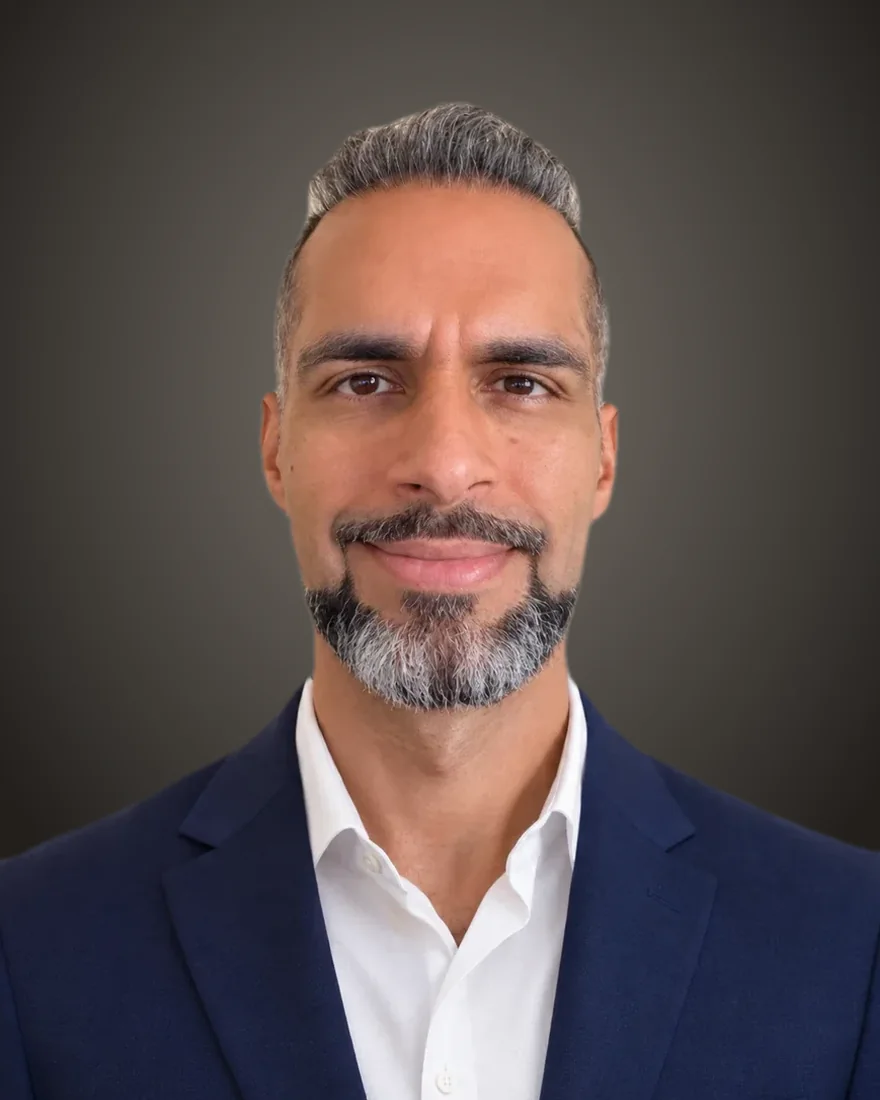
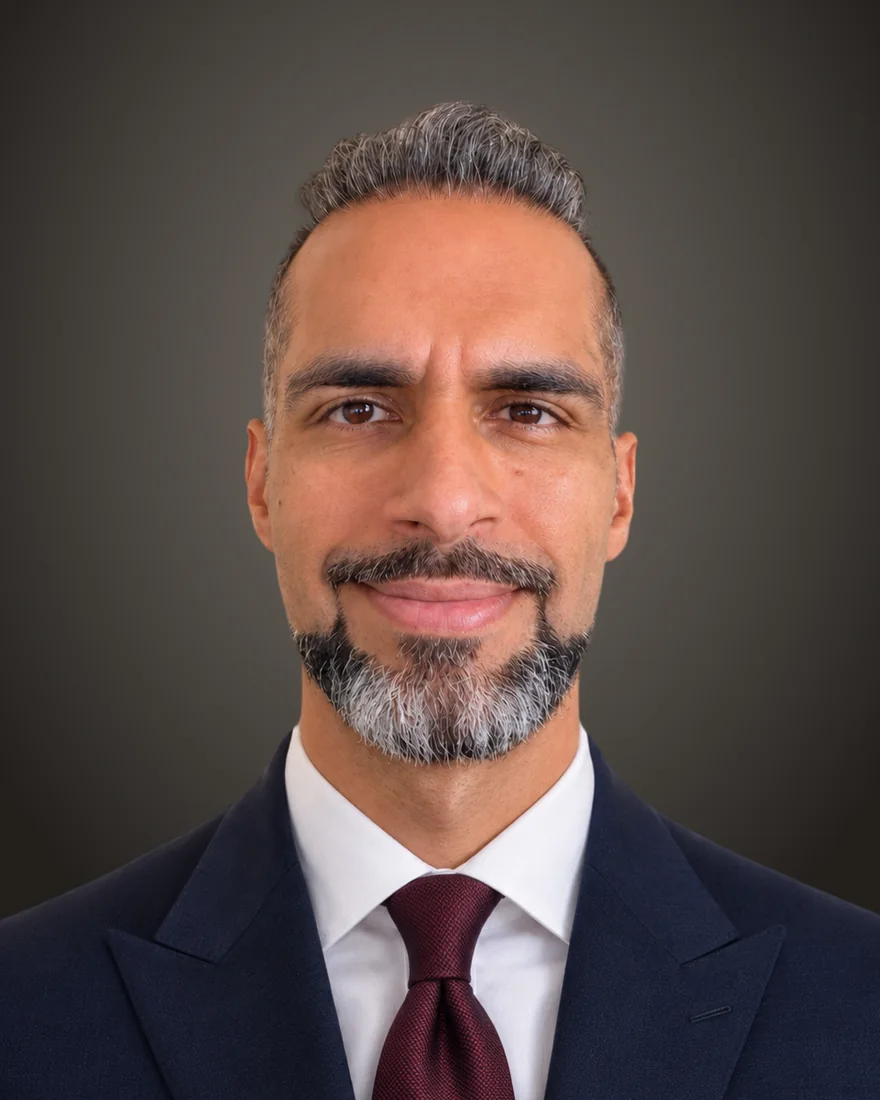
Our Team: full org-chart layout with leadership tiers and AI persona groups
Chandru and Amir on their own tiers, ten conceptual AI personas grouped into
Investment Research and Operations & Governance, each labelled as such.
All portraits cut out, set on one backdrop and matched by eye line and face
size; neutral black and white with a fine gold trim. Public disclosure from
the team handoff sits under the persona section.

Claude-Session: https://claude.ai/code/session_014NhbtmUA87UCGRoWSpcgnQ

diff --git a/index.html b/index.html
@@ -926,24 +926,56 @@ footer::before { content: ''; position: absolute; top: 0; left: 0; right: 0; hei
 
 
 /* ── TEAM ── */
-/* Cards share row tracks (subgrid), so photo, name, title, rule and bio line up across a row */
-.team-grid {
-  --gap: clamp(1.5rem, 3vw, 2.5rem);
-  display: grid; gap: var(--gap);
-  grid-template-columns: repeat(auto-fit, minmax(min(100%, 330px), 390px));
-  justify-content: center;
+.team-wrap { max-width: 1400px; }
+.team-label {
+  display: block; text-align: center; margin-bottom: clamp(1.75rem, 3vw, 2.5rem);
+  font-family: var(--display); font-size: 0.72rem; letter-spacing: 0.45em; text-transform: uppercase;
+  color: var(--gold-s); background: var(--gold-h); -webkit-background-clip: text;
+  -webkit-text-fill-color: transparent; background-clip: text;
 }
+/* one card per tier, centred; the gold link joins the tiers like an org chart */
+.org-tier { display: grid; grid-template-columns: minmax(0, 390px); justify-content: center; }
+.org-link {
+  width: 1px; height: clamp(2.5rem, 5vw, 4rem); margin: 0 auto;
+  background: linear-gradient(180deg, rgba(212,175,55,0.15), var(--gold-s), rgba(212,175,55,0.15));
+  position: relative;
+}
+.org-link::after {
+  content: ''; position: absolute; left: 50%; top: 50%; width: 5px; height: 5px;
+  transform: translate(-50%, -50%) rotate(45deg); background: var(--gold-s);
+}
+.org-link + .team-label { margin-top: clamp(1.25rem, 2.5vw, 2rem); }
+.team-group {
+  display: flex; align-items: center; gap: 1.25rem;
+  max-width: 760px; margin: clamp(2.5rem, 5vw, 3.5rem) auto clamp(1.75rem, 3vw, 2.25rem);
+  font-family: var(--display); font-weight: 400; font-size: 0.8rem; letter-spacing: 0.32em; text-transform: uppercase;
+  color: rgba(249,245,236,0.78); white-space: nowrap;
+}
+.team-label + .team-group { margin-top: 0; }
+.team-group::before, .team-group::after { content: ''; flex: 1; height: 1px; background: var(--border2); }
+
+/* Cards share row tracks (subgrid), so photo, tag, name, title, rule and bio line up across a row */
+.team-grid {
+  --gap: clamp(1.25rem, 2vw, 1.75rem);
+  display: grid; gap: var(--gap); justify-content: center;
+  grid-template-columns: minmax(0, 360px);
+}
+@media (min-width: 640px)  { .team-grid { grid-template-columns: repeat(2, minmax(0, 290px)); } }
+@media (min-width: 1000px) { .team-grid--research { grid-template-columns: repeat(3, minmax(0, 290px)); } }
+@media (min-width: 1320px) { .team-grid--ops { grid-template-columns: repeat(4, minmax(0, 290px)); } }
 .member {
-  display: grid; grid-row: span 5; grid-template-rows: subgrid; row-gap: 0;
+  display: grid; grid-template-rows: subgrid; row-gap: 0;
   text-align: center;
   background: var(--card); border: 1px solid var(--border);
 }
+.member--lead { grid-row: span 5; grid-template-rows: auto; }
+.member--ai { grid-row: span 6; }
 .member .portrait { position: relative; aspect-ratio: 4 / 5; background: #16140f; overflow: hidden; }
-/* One gold tritone (SVG filter #ic-gold) with fine grain on every portrait, so the set reads as one shoot */
+/* One neutral black-and-white grade with fine grain on every portrait, so the set reads as one shoot */
 .member .portrait img {
   display: block; width: 100%; height: 100%;
   object-fit: cover; object-position: 50% 22%;
-  filter: contrast(1.15) url(#ic-gold);
+  filter: grayscale(1) contrast(1.07) brightness(1.02);
 }
 .member .portrait::after {
   content: ''; position: absolute; inset: 0; pointer-events: none;
@@ -952,7 +984,20 @@ footer::before { content: ''; position: absolute; top: 0; left: 0; right: 0; hei
 }
 .member-body { display: contents; }
 .member-body > * { margin-left: clamp(1.5rem, 3vw, 2rem); margin-right: clamp(1.5rem, 3vw, 2rem); }
-.member h3 { padding-top: clamp(1.75rem, 3vw, 2.25rem); align-self: end; }
+.member-body > :first-child { padding-top: clamp(1.6rem, 2.6vw, 2.1rem); }
+/* fine gold trim set just inside each photo, with a gold rule under it */
+.member .portrait { border-bottom: 1px solid var(--border2); }
+.member .portrait::before {
+  content: ''; position: absolute; inset: 10px; z-index: 2; pointer-events: none;
+  border: 1px solid rgba(212,175,55,0.55);
+}
+.member--lead .portrait::before { inset: 12px; border-color: rgba(212,175,55,0.7); }
+.member--lead { border-color: var(--border2); }
+.ai-tag {
+  display: block; margin-bottom: 0.7rem;
+  font-family: var(--display); font-size: 0.6rem; letter-spacing: 0.24em; text-transform: uppercase;
+  color: rgba(249,245,236,0.45);
+}
 .member h3 {
   font-family: var(--display); font-weight: 500;
   font-size: clamp(1rem, 1.4vw, 1.12rem); letter-spacing: 0.12em; text-transform: uppercase;
@@ -966,11 +1011,13 @@ footer::before { content: ''; position: absolute; top: 0; left: 0; right: 0; hei
 .member .member-rule { width: 40px; height: 1px; margin: 1.4rem auto; background: var(--gold-h); }
 .member-body p { font-size: clamp(1.05rem, 1.6vw, 1.15rem); line-height: 1.75; color: var(--muted); padding-bottom: clamp(2rem, 3.5vw, 2.5rem); }
 .team-disclosure {
-  margin-top: clamp(3rem, 6vw, 4.5rem); text-align: right;
-  font-size: 10px; line-height: 1.5; letter-spacing: 0.01em;
-  color: rgba(249,245,236,0.3);
+  max-width: 760px; margin: clamp(3rem, 6vw, 4.5rem) auto 0; text-align: center;
+  font-size: 11px; line-height: 1.6; letter-spacing: 0.01em;
+  color: rgba(249,245,236,0.34);
 }
-@media (min-width: 900px) { .team-disclosure { white-space: nowrap; } }
+.member--ai .member-body p { font-size: 1.02rem; line-height: 1.7; }
+.member--ai h3 { font-size: 0.98rem; letter-spacing: 0.1em; }
+.org-tier { grid-template-columns: minmax(0, 420px); }
 
 /* ── PULL QUOTE (portfolio intro) ── */
 .pull-quote {
@@ -1082,17 +1129,6 @@ footer::before { content: ''; position: absolute; top: 0; left: 0; right: 0; hei
 
 <a href="#main" class="skip-link">Skip to content</a>
 
-<!-- gold tritone for team portraits: black shadows, bronze mids, champagne highlights -->
-<svg width="0" height="0" style="position:absolute" aria-hidden="true" focusable="false">
-  <filter id="ic-gold" color-interpolation-filters="sRGB">
-    <feColorMatrix type="saturate" values="0"/>
-    <feComponentTransfer>
-      <feFuncR type="table" tableValues="0.035 0.42 0.80 0.99"/>
-      <feFuncG type="table" tableValues="0.028 0.29 0.62 0.94"/>
-      <feFuncB type="table" tableValues="0.020 0.10 0.28 0.78"/>
-    </feComponentTransfer>
-  </filter>
-</svg>
 
 <!-- ══════════ NAV ══════════ -->
 <nav id="nav">
@@ -1533,29 +1569,147 @@ footer::before { content: ''; position: absolute; top: 0; left: 0; right: 0; hei
   </div>
 
   <div style="background:var(--black)">
-    <div class="section-inner">
-      <div class="team-grid">
-        <article class="member reveal">
-          <div class="portrait"><img src="team/chandru-mahtani.webp" alt="Portrait of Chandru Mahtani" width="880" height="1100" loading="lazy" decoding="async"></div>
+    <div class="section-inner team-wrap">
+
+      <!-- Human leadership: one per tier, linked like an organisation chart -->
+      <span class="team-label reveal">Leadership</span>
+      <div class="org-tier">
+        <article class="member member--lead reveal">
+          <div class="portrait"><img src="team/chandru-mahtani.webp" alt="AI-edited portrait of Chandru Mahtani" width="880" height="1100" loading="lazy" decoding="async"></div>
           <div class="member-body">
             <h3>Chandru Mahtani</h3>
-            <span class="role">CEO &amp; Head Investment Director</span>
+            <span class="role">Chief Executive Officer</span>
             <div class="member-rule"></div>
-            <p>Chandru is the third generation of a family in business since 1893. He has refined Inner Circle&rsquo;s investment philosophy over 44 years and across multiple market cycles.</p>
+            <p>Chandru leads Inner Circle&rsquo;s investment direction and overall strategy. His approach centres on long-term thinking, disciplined decision-making and careful stewardship of capital.</p>
           </div>
         </article>
-        <article class="member reveal">
-          <div class="portrait"><img src="team/amir-mahtani.webp" alt="Portrait of Amir Mahtani" width="880" height="1100" loading="lazy" decoding="async"></div>
+      </div>
+      <div class="org-link" aria-hidden="true"></div>
+      <div class="org-tier">
+        <article class="member member--lead reveal">
+          <div class="portrait"><img src="team/amir-mahtani.webp" alt="AI-edited portrait of Amir Mahtani" width="880" height="1100" loading="lazy" decoding="async"></div>
           <div class="member-body">
             <h3>Amir Mahtani</h3>
             <span class="role">Chief Operating Officer</span>
             <div class="member-rule"></div>
-            <p>Amir runs Inner Circle&rsquo;s day-to-day operations, overseeing administration, reporting and member relations with the same discipline that guides the portfolio.</p>
+            <p>Amir oversees Inner Circle&rsquo;s operations, coordinating the administration, reporting and information that support the organisation&rsquo;s strategy and day-to-day work.</p>
+          </div>
+        </article>
+      </div>
+      <div class="org-link" aria-hidden="true"></div>
+
+      <!-- Conceptual AI personas, kept as their own section -->
+      <span class="team-label reveal">Conceptual AI Personas</span>
+
+      <h2 class="team-group reveal"><span>Investment Research</span></h2>
+      <div class="team-grid team-grid--research">
+        <article class="member member--ai reveal">
+          <div class="portrait"><img src="team/matteo-ricci.webp" alt="AI-generated portrait of a fictional persona, Matteo Ricci" width="880" height="1100" loading="lazy" decoding="async"></div>
+          <div class="member-body">
+            <span class="ai-tag">Conceptual AI persona</span>
+            <h3>Matteo Ricci</h3>
+            <span class="role">Strategy &amp; Portfolio Research</span>
+            <div class="member-rule"></div>
+            <p>A conceptual AI persona for organising investment themes, comparing allocation scenarios and turning complex questions into clear research briefs for human review.</p>
+          </div>
+        </article>
+        <article class="member member--ai reveal">
+          <div class="portrait"><img src="team/evelyn-tan.webp" alt="AI-generated portrait of a fictional persona, Evelyn Tan" width="880" height="1100" loading="lazy" decoding="async"></div>
+          <div class="member-body">
+            <span class="ai-tag">Conceptual AI persona</span>
+            <h3>Evelyn Tan</h3>
+            <span class="role">Global Macro Research</span>
+            <div class="member-rule"></div>
+            <p>A conceptual AI persona for tracking economic indicators, policy developments and market narratives, with attention to the assumptions and uncertainties behind each view.</p>
+          </div>
+        </article>
+        <article class="member member--ai reveal">
+          <div class="portrait"><img src="team/marcus-adeyemi.webp" alt="AI-generated portrait of a fictional persona, Marcus Adeyemi" width="880" height="1100" loading="lazy" decoding="async"></div>
+          <div class="member-body">
+            <span class="ai-tag">Conceptual AI persona</span>
+            <h3>Marcus Adeyemi</h3>
+            <span class="role">Risk &amp; Scenario Analysis</span>
+            <div class="member-rule"></div>
+            <p>A conceptual AI persona for examining downside scenarios, concentration and liquidity considerations, making potential exposures and trade-offs easier to assess.</p>
+          </div>
+        </article>
+        <article class="member member--ai reveal">
+          <div class="portrait"><img src="team/arjun-mehta.webp" alt="AI-generated portrait of a fictional persona, Arjun Mehta" width="880" height="1100" loading="lazy" decoding="async"></div>
+          <div class="member-body">
+            <span class="ai-tag">Conceptual AI persona</span>
+            <h3>Arjun Mehta</h3>
+            <span class="role">Private Markets Research</span>
+            <div class="member-rule"></div>
+            <p>A conceptual AI persona for reviewing business models, sector dynamics and transaction materials, organising evidence and open questions for further due diligence.</p>
+          </div>
+        </article>
+        <article class="member member--ai reveal">
+          <div class="portrait"><img src="team/dalia-mansour.webp" alt="AI-generated portrait of a fictional persona, Dalia Mansour" width="880" height="1100" loading="lazy" decoding="async"></div>
+          <div class="member-body">
+            <span class="ai-tag">Conceptual AI persona</span>
+            <h3>Dalia Mansour</h3>
+            <span class="role">Regional Market Research</span>
+            <div class="member-rule"></div>
+            <p>A conceptual AI persona for bringing together regional market developments, sector information and cross-border considerations to support a broader view of opportunities and risks.</p>
+          </div>
+        </article>
+        <article class="member member--ai reveal">
+          <div class="portrait"><img src="team/camila-duarte.webp" alt="AI-generated portrait of a fictional persona, Camila Duarte" width="880" height="1100" loading="lazy" decoding="async"></div>
+          <div class="member-body">
+            <span class="ai-tag">Conceptual AI persona</span>
+            <h3>Camila Duarte</h3>
+            <span class="role">Partnership Research</span>
+            <div class="member-rule"></div>
+            <p>A conceptual AI persona for mapping potential counterparties, comparing strategic fit and preparing background briefs for considered business conversations.</p>
           </div>
         </article>
       </div>
 
-      <p class="team-disclosure">Everyone on this page other than Chandru Mahtani and Amir Mahtani is a named AI agent, not a human employee. Their portraits are AI-generated representations of fictional identities.</p>
+      <h2 class="team-group reveal"><span>Operations &amp; Governance</span></h2>
+      <div class="team-grid team-grid--ops">
+        <article class="member member--ai reveal">
+          <div class="portrait"><img src="team/victor-albrecht.webp" alt="AI-generated portrait of a fictional persona, Victor Albrecht" width="880" height="1100" loading="lazy" decoding="async"></div>
+          <div class="member-body">
+            <span class="ai-tag">Conceptual AI persona</span>
+            <h3>Victor Albrecht</h3>
+            <span class="role">Operations &amp; Reporting</span>
+            <div class="member-rule"></div>
+            <p>A conceptual AI persona for organising reporting workflows, document registers and review schedules, with an emphasis on clear records and consistent follow-through.</p>
+          </div>
+        </article>
+        <article class="member member--ai reveal">
+          <div class="portrait"><img src="team/kenji-sato.webp" alt="AI-generated portrait of a fictional persona, Kenji Sato" width="880" height="1100" loading="lazy" decoding="async"></div>
+          <div class="member-body">
+            <span class="ai-tag">Conceptual AI persona</span>
+            <h3>Kenji Sato</h3>
+            <span class="role">Data &amp; Systems</span>
+            <div class="member-rule"></div>
+            <p>A conceptual AI persona for structuring research data, checking consistency and designing repeatable analytical workflows with traceable inputs and assumptions.</p>
+          </div>
+        </article>
+        <article class="member member--ai reveal">
+          <div class="portrait"><img src="team/simone-mensah.webp" alt="AI-generated portrait of a fictional persona, Simone Mensah" width="880" height="1100" loading="lazy" decoding="async"></div>
+          <div class="member-body">
+            <span class="ai-tag">Conceptual AI persona</span>
+            <h3>Simone Mensah</h3>
+            <span class="role">Investor Communications</span>
+            <div class="member-rule"></div>
+            <p>A conceptual AI persona for developing clear reporting narratives, organising investor questions and preparing concise updates for approval by the responsible human team.</p>
+          </div>
+        </article>
+        <article class="member member--ai reveal">
+          <div class="portrait"><img src="team/ingrid-voss.webp" alt="AI-generated portrait of a fictional persona, Ingrid Voss" width="880" height="1100" loading="lazy" decoding="async"></div>
+          <div class="member-body">
+            <span class="ai-tag">Conceptual AI persona</span>
+            <h3>Ingrid Voss</h3>
+            <span class="role">Governance &amp; Stewardship Research</span>
+            <div class="member-rule"></div>
+            <p>A conceptual AI persona for structuring governance materials, documenting decision criteria and preparing questions for appropriate legal, regulatory and professional review.</p>
+          </div>
+        </article>
+      </div>
+
+      <p class="team-disclosure">The ten AI personas are fictional concepts with AI-generated portraits. They describe proposed research and operational support functions, not human employees, licensed advisers or confirmed deployed AI systems. Human leadership retains responsibility for decisions and commitments. Human leadership portraits have been edited with AI.</p>
     </div>
   </div>
 
